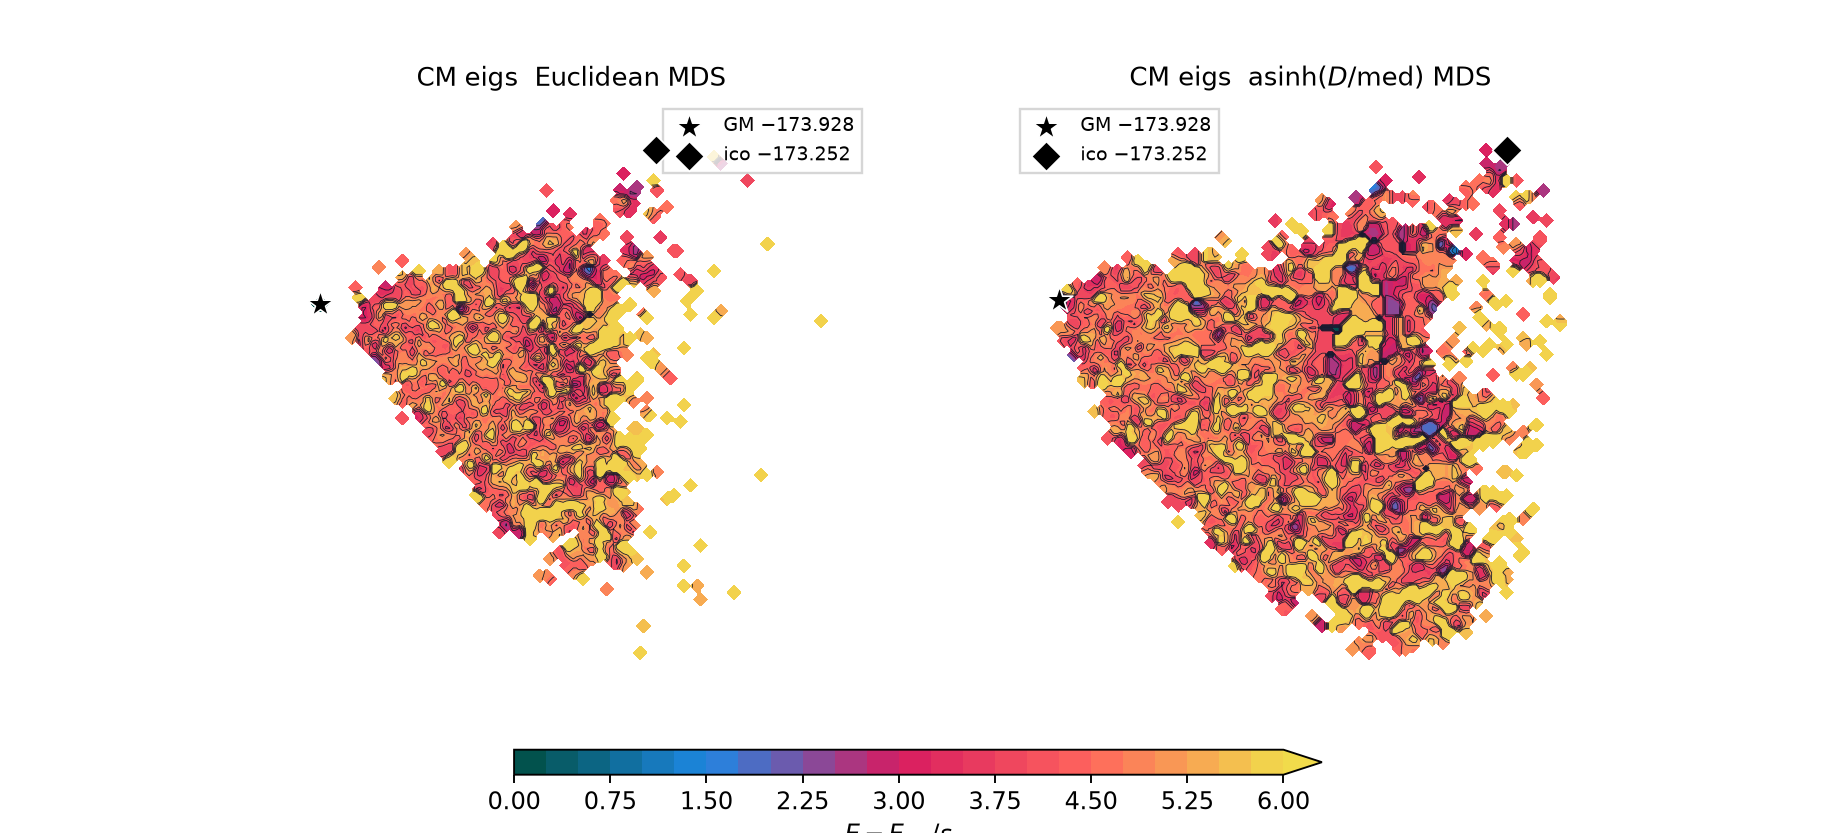
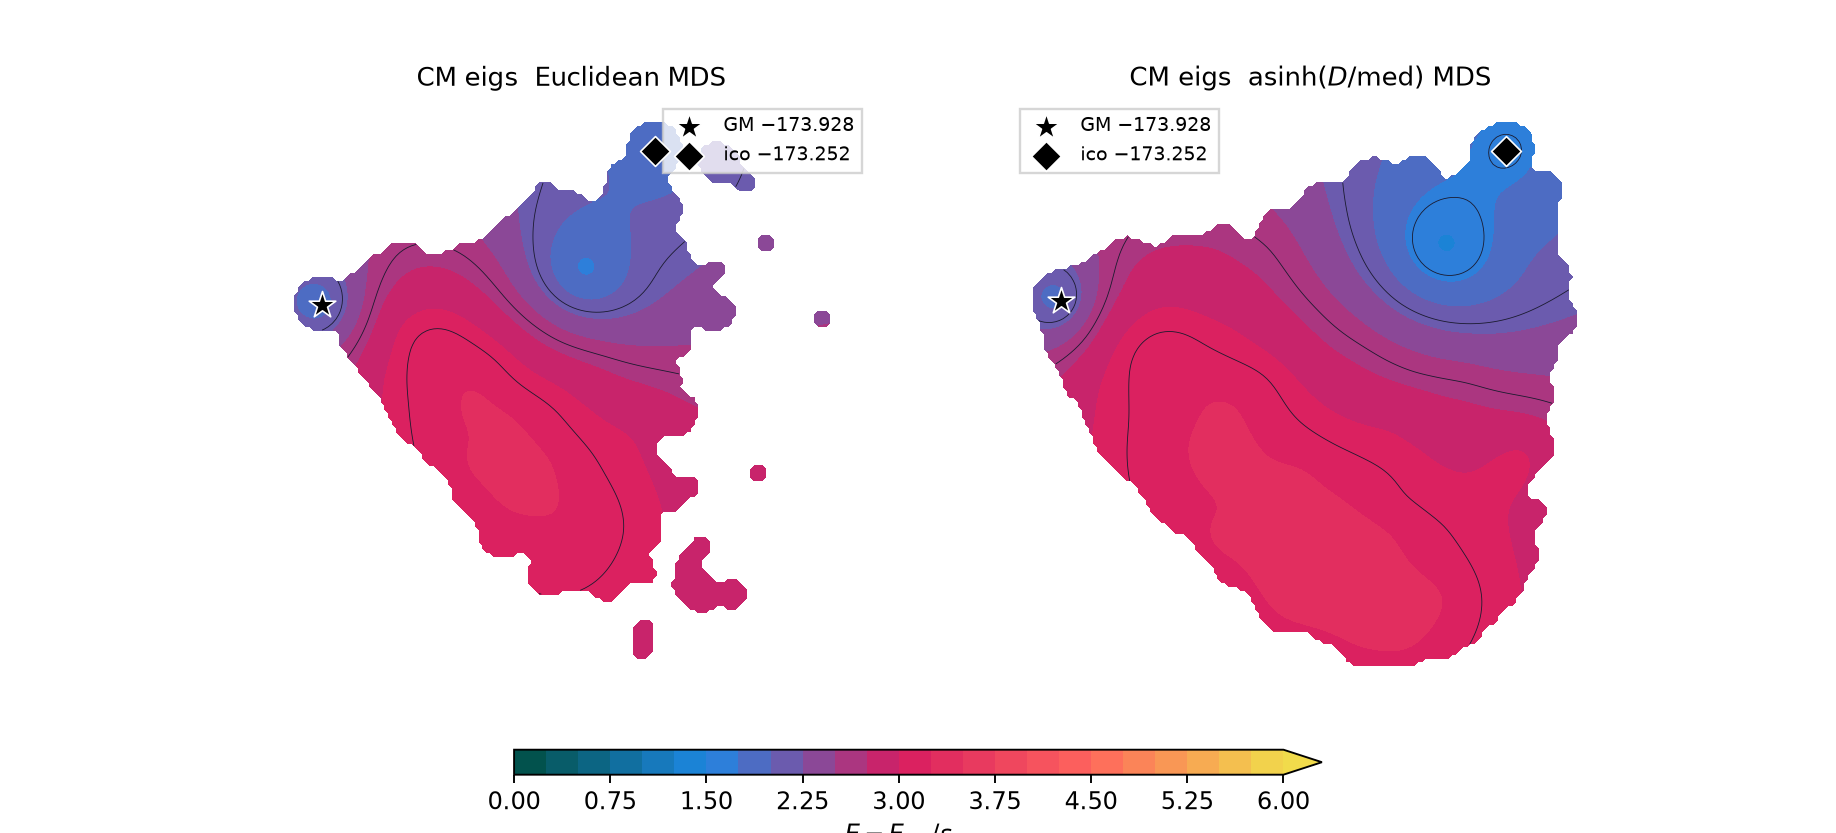
feat: Coulomb-matrix eigenvalue map of 4042 LJ38 minima
Sorted CM eigenvalues (M_ii=0) as a permutation-invariant HD, then
classical MDS of Euclidean D and of asinh(D/median). Fill is quenched
energy (Nadaraya-Watson IMQ), not occupancy invert. asinh separates
the Oh-GM pocket from the ico well (sep_norm 0.67).

diff --git a/scripts/occ_book_cm.py b/scripts/occ_book_cm.py
@@ -262,12 +262,13 @@ def imq_nw_field(xy, values, ngrid=160, ell=0.07, pad=0.10, idx=None):
     """Nadaraya-Watson IMQ. Smooth two-basin body; does not invent occupancy."""
     pts = xy if idx is None else xy[idx]
     val = values if idx is None else values[idx]
-    pts, val = collapse_sites(pts, val, nd=4)
-    if len(pts) > 720:
+    # keep degeneracy (40 GM, 17 ico copies) so isolated wells have weight
+    if idx is None and len(pts) > 900:
         order = np.argsort(val)
-        take = np.unique(
-            np.concatenate([order[:360], order[:: max(len(order) // 360, 1)][:360]])
-        )
+        take = list(order[:240])
+        rest = order[240:]
+        stride = max(len(rest) // 400, 1)
+        take = np.unique(np.concatenate([take, rest[::stride][:400]]))
         pts, val = pts[take], val[take]
     x, y = xy[:, 0], xy[:, 1]
     xmin, xmax = float(x.min()), float(x.max())
@@ -445,8 +446,8 @@ def score_map(name, xy, energy, igm, iico, family, fill="imq", idx=None):
     elif fill == "envelope":
         gx, gy, ehat = env_gx, env_gy, env
     else:
-        gx, gy, raw = imq_nw_field(u, rel, ngrid=160, ell=0.075, idx=idx)
-        ell = 0.075
+        gx, gy, raw = imq_nw_field(u, rel, ngrid=160, ell=0.06, idx=idx)
+        ell = 0.06
         mask = support_mask(u, gx, gy, sigma=2.6, frac=0.0025)
         ehat = np.where(mask, np.clip(raw, 0.0, EMAX), np.nan)
         fill = "imq_nw"
@@ -487,7 +488,7 @@ def score_map(name, xy, energy, igm, iico, family, fill="imq", idx=None):
         "well_GM": w_gm,
         "well_ico": w_ico,
         "two_basins": bool(two),
-        "gm_in_well": bool(gm_local and w_gm is not None),
+        "gm_in_well": bool(gm_local),
         "gm_deeper": bool(gm_deeper),
         "gm_on_rim": bool(rim),
         "silhouette": sil,
@@ -730,7 +731,7 @@ def main() -> None:
             write_xy(cache_xy, xy)
         xy_of[name] = xy
         ev_of[name] = [float(x) for x in ev]
-        rec, pack = score_map(name, xy, energy, igm, iico, fam, fill="imq", idx=None)
+        rec, pack = score_map(name, xy, energy, igm, iico, fam, fill="imq", idx=idx)
         scores.append(rec)
         painted[name] = pack
         print(
